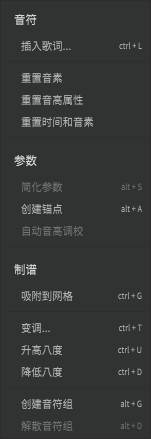
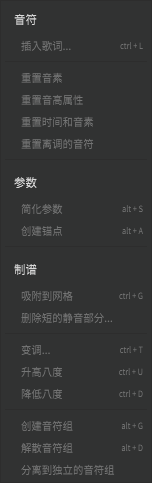
update to 4.2.0

diff --git a/src/components/TeamProfileCards/index.tsx b/src/components/TeamProfileCards/index.tsx
@@ -13,15 +13,17 @@ interface ProfileProps {
     name: string;
     children: ReactNode;
     githubUrl?: string;
-    twitterUrl?: string;
+    pic: string;
+    bilibiliurl?: string;
 }
 
 function TeamProfileCard({
     className,
     name,
+    pic,
     children,
     githubUrl,
-    twitterUrl,
+    bilibiliurl,
 }: ProfileProps) {
     return (
         <div className={className}>
@@ -30,7 +32,7 @@ function TeamProfileCard({
                     <div className="avatar avatar--vertical">
                         <img
                             className="avatar__photo avatar__photo--xl"
-                            src={`${githubUrl}.png`}
+                            src={pic}
                             alt={`${name}'s avatar`}
                         />
                         <br />
@@ -47,8 +49,8 @@ function TeamProfileCard({
                                 GitHub
                             </a>
                         )}
-                        {twitterUrl && (
-                            <a className="button button--secondary" href={twitterUrl}>
+                        {bilibiliurl && (
+                            <a className="button button--secondary" href={bilibiliurl}>
                                 哔哩哔哩
                             </a>
                         )}
@@ -69,21 +71,42 @@ export function ActiveTeamRow(): JSX.Element {
     return (
         <div className="row">
             <TeamProfileCardCol
+                pic="https://z3.ax1x.com/2021/11/19/IbzHiT.png"
                 name="磷元素P"
                 githubUrl="https://github.com/linyuansup"
-                twitterUrl="https://space.bilibili.com/273891297">
-                VOCALOID / Synthesizer V 调校、混音，也是这个仓库的管理。最近在进修 PV。
+                bilibiliurl="https://space.bilibili.com/273891297">
+                VOCALOID / Synthesizer V 调校、混音，也是这个仓库的管理
             </TeamProfileCardCol>
             <TeamProfileCardCol
                 name="LinR 隐卫"
+                pic="https://z3.ax1x.com/2021/11/19/IbzbJU.png"
                 githubUrl="https://github.com/zhdl889"
-                twitterUrl="https://space.bilibili.com/8109148">
-                圈内的巨佬，曾拥有中 V / SV 全员声库并维持了几个月。（其实磷元素是他的铁粉哦）
+                bilibiliurl="https://space.bilibili.com/8109148">
+                圈内的巨佬，曾拥有中 V / SV 全员声库并维持了几个月（其实磷元素是他的铁粉哦）
             </TeamProfileCardCol>
             <TeamProfileCardCol
+                pic="https://z3.ax1x.com/2021/11/19/IbzIZq.png"
                 name="Jobsecond"
                 githubUrl="https://github.com/Jobsecond">
-                向仓库提交了第一个 Pull Requests。（可以去他的 Github 看看，有鸽子的 PV 集合）
+                向仓库提交了第一个 Pull Requests（可以去他的 Github 看看，有鸽子的 PV 集合）
+            </TeamProfileCardCol>
+            <TeamProfileCardCol
+                name="ObjectNotFound"
+                pic="https://z3.ax1x.com/2021/11/19/IqpG9O.jpg"
+                githubUrl="https://github.com/objectnf">
+                是一个翻译大佬，帮助翻译了部分 API 内容
+            </TeamProfileCardCol>
+            <TeamProfileCardCol
+                pic="https://z3.ax1x.com/2021/11/19/IbzToV.png"
+                name="时忽Entropy"
+                bilibiliurl="https://space.bilibili.com/14721376">
+                下载服务器提供者，而且还在 CVSE 剪周刊（磷元素也在其实（x）
+            </TeamProfileCardCol>
+            <TeamProfileCardCol
+                name="尊贵的阿昆达"
+                pic="https://z3.ax1x.com/2021/11/19/Ibzod0.png"
+                bilibiliurl="https://space.bilibili.com/12131593">
+                提供 Pro 版本内容编写支持。磷元素问自我介绍的时候表示懒得写（并不
             </TeamProfileCardCol>
         </div>
     );

diff --git a/docusaurus.config.js b/docusaurus.config.js
@@ -97,7 +97,7 @@ const config = {
             ],
           },
           {
-            label: 'v4.1.5 适配到 Synthesizer V Studio 1.4.0',
+            label: 'v4.2.0 适配到 Synthesizer V Studio 1.4.0',
             position: 'right',
             items: [
               {
@@ -180,7 +180,7 @@ const config = {
             ],
           },
         ],
-        copyright: `磷元素P & 不羁阁 - 部分内容来自于 Dreamtonics - Synthesizer V Studio Docs v4.1.5 前端 v1.0.4 后端 v3.3.8 更新于 21-11-18`,
+        copyright: `磷元素P & 不羁阁 - 部分内容来自于 Dreamtonics - Synthesizer V Studio Docs v4.2.0 前端 v1.1.0 后端 v3.3.8 更新于 21-11-19`,
       },
       prism: {
         theme: lightCodeTheme,

diff --git a/docs/main_docs/menu/auto_process.md b/docs/main_docs/menu/auto_process.md
@@ -1,3 +1,77 @@
 ---
 title: 自动处理
 ---
+
+:::tip
+本节内容存在极多的 AI 部分，因此难以详细表述出其原理，请酌情阅读。
+:::
+
+自动处理菜单内容如下
+
+![修改菜单](/docs/main_docs/menu/auto_process/1.png)
+
+## 自动音高调校
+
+自动调节已选择音符 / 音符组内音符的音高参数。该功能只改变音高偏差参数，并且会将音符的颤音深度、音高转变的左右深度归零。点击后弹窗如下：
+
+:::tip
+弹窗仅存在于 Pro 版本，Basic 版本仅会使用默认参数生成。
+:::
+
+![自动音高调校](/docs/main_docs/menu/auto_process/2.png)
+
+### 表现力
+
+可以理解为音高偏差参数的改变幅度。
+
+### 随机数种子
+
+用于生成音高偏差的随机数。该功能并无实际意义，但改变数值可以改变每次生成的参数。在对生成内容不满意时，可以改变随机数种子，从而获得不同的结果。
+
+### 启用音高补正
+
+减少音高偏差偏移的幅度。勾选该功能后可有效防止跑调，但可能会导致颤音幅度减低。
+
+## 自动音高调校（自定义风格）
+
+![自动音高调校（自定义）](/docs/main_docs/menu/auto_process/3.png)
+
+:::tip
+该功能仅存在于 Pro 版本。
+:::
+
+表现力、随机数种子、启用音高补正与上述完全相同，以下仅介绍不同的内容。
+
+### 歌唱风格 - 颤音 1/2
+
+更改颤音的幅度以及频率（其实频率好像不大会动）。
+
+### 歌唱风格 - 衔接力度
+
+更改音符衔接的幅度。该功能可能作用于音符的转音。
+
+## 以新的随机数重新生成
+
+:::tip
+该功能仅存在于 Pro 版本。
+:::
+
+按上次使用自动调校的参数，只改变随机数并重新调节音高。
+
+## 修饰选择的音符
+
+:::tip
+该功能仅存在于 Pro 版本。
+:::
+
+对选择的音符添加转音（通过拆音实现而不是参数），点击后窗口如下。
+
+![修饰选择的音符](/docs/main_docs/menu/auto_process/4.png)
+
+### 向左拆分的倾向
+
+左侧拆出的音符长度。达到一定数值后将不在左侧拆音。
+
+### 向右拆分的倾向
+
+右侧拆出的音符长度。达到一定数值后将不在右侧拆音。

diff --git a/docs/main_docs/menu/modify.md b/docs/main_docs/menu/modify.md
@@ -40,6 +40,10 @@ title: 修改
 
 将选中音符的时间和音素重置为 Synthesizer V Studio 默认的时间和音素。这里的时间和音素包括侧边栏音符属性面板中的时间和音素选项，不包括表现力分组。
 
+## 重置离调的音符
+
+将离调的音符拉回到离它最近的调内音。Synthesizer V Studio 会根据整个工程自动判断调式。
+
 ## 简化参数
 
 简化参数面板中的参数。该操作可减少工程文件的占用空间大小但不显著降低工程质量。需先选中需要简化的参数点才可使用该选项。
@@ -55,6 +59,16 @@ title: 修改
 ## 吸附到网格
 
 将选中音符的音符头对齐到最近的网格上并保证音符长度不变，类似于一些宿主的量化功能。网格的间隔取决于在 视图 - 吸附（钢琴卷帘） 菜单中设置的选项。
+
+## 删除短的静音部分
+
+拉长前一个音符以补充音符间的间隙。点击后会出现如下弹窗：
+
+![删除短的静音部分](/docs/main_docs/menu/modify/3.png)
+
+### 阈值
+
+调整需要删除的静音部分的时长。小于阈值的空隙部分将会被删除，同时你可以在上方看到将会改变的音符数量。
 
 ## 变调
 
@@ -79,6 +93,10 @@ title: 修改
 ## 解散音符组
 
 解散当前选中的音符组或当前选中音符所在的音符组。
+
+## 分离到独立的音符组
+
+将当前选择的音符组复制一份，使其不与原音符组互相影响。该功能常用于复制参数后改歌词。
 
 :::tip
 根据 Dreamtonics 官方的说法，一些发音等问题通过创建音符组的方式可以解决。（这就是玄学优化吗 hhhhh）

diff --git a/docs/main_docs/menu/script.md b/docs/main_docs/menu/script.md
@@ -3,7 +3,21 @@ title: 脚本
 ---
 
 :::tip
-本节不包括脚本编写的内容。有关脚本编写，请参考 [Synth V 官方文档](https://dreamtonics.com/synthv/scripting)，该文档的中翻工作正在进行中，参考 [了解脚本](../../api/about.md)。
+本节不包括脚本编写的内容。有关脚本编写，请参考 [Synthesizer V Studio 官方文档](https://dreamtonics.com/synthv/scripting)，该文档的中翻工作正在进行中，参考 [了解脚本](../../api/about.md)。
 :::
 
-呜呜呜有没有买了 Pro 的大佬帮我写一下这篇呜呜呜呜。
+## 重新扫描
+
+重新扫描插件文件夹下的所有插件。
+
+## 打开脚本文件夹
+
+打开脚本文件夹，即 `C:\Users\***\Documents\Dreamtonics\Synthesizer V Studio\scripts`，其中 *** 为你的用户名。
+
+## 停止所有运行中的脚本
+
+强制停止所有运行中的脚本，该功能可能会导致一些脚本功能失效或崩溃。
+
+:::tip
+脚本的具体内容（包括官方脚本）请参考 [脚本下载界面](../../download/script.md)
+:::

diff --git a/docs/main_docs/menu/misc.md b/docs/main_docs/menu/misc.md
@@ -1,3 +1,29 @@
 ---
 title: 其他
 ---
+
+其他菜单内容如下
+
+![其他菜单](/docs/main_docs/menu/misc/1.png)
+
+## 显示帮助（在线）
+
+打开 [官方在线帮助内容](https://dreamtonics.com/en/svstudio-resources/)
+
+## 人工神经网络性能调整工具
+
+根据当前电脑性能调整神经网络性能，以达到最佳效果。建议在每次更新或重新安装后运行。点击后会出现如下弹窗：
+
+![性能调整](/docs/main_docs/menu/misc/2.png)
+
+### 开始性能测试
+
+开始测试机器性能，该操作需首先执行，大约需要 1 分钟。
+
+### 应用并重新启动实时渲染系统
+
+根据电脑性能调整渲染系统。该步骤必须执行，否则上一步没有效果。
+
+## 关于
+
+查看 Synthesizer V Studio 以及系统信息，在出现 Bug 时可以发送给官方。

diff --git a/docs/main_docs/menu/view.md b/docs/main_docs/menu/view.md
@@ -1,6 +1,7 @@
 ---
 title: 视图
 ---
+
 视图菜单内容如下
 
 ![视图菜单](/docs/main_docs/menu/view/1.png)
